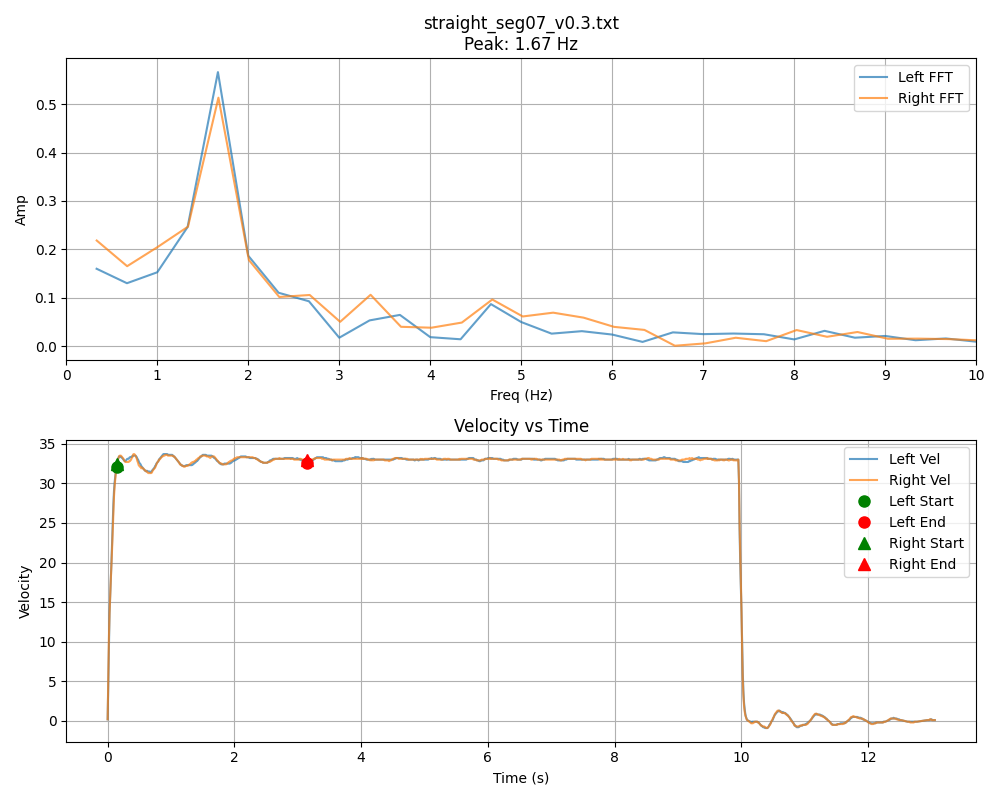
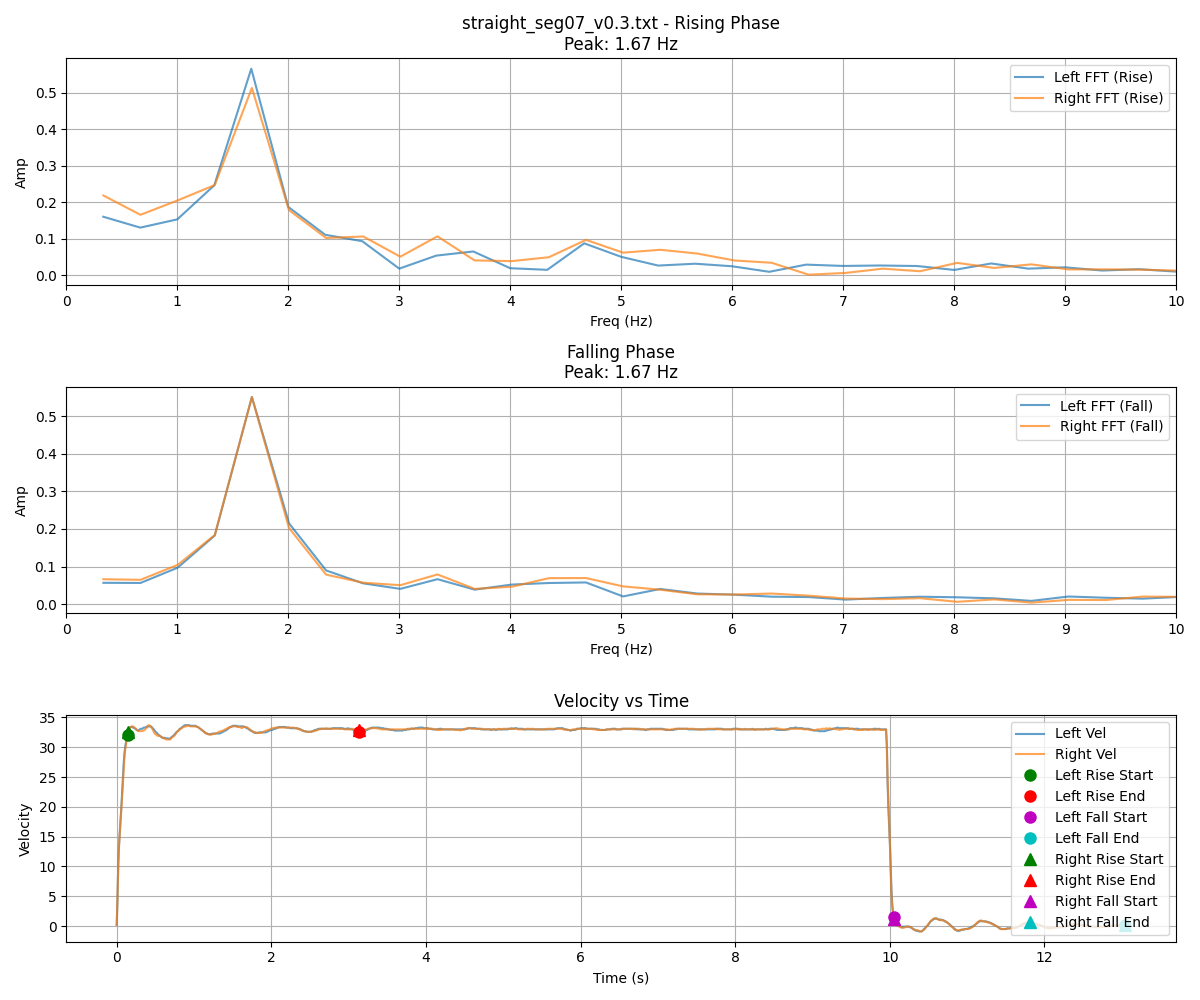
fix plot

diff --git a/script/analyze_vibration.py b/script/analyze_vibration.py
@@ -52,7 +52,7 @@ def parse_segment_file(filepath):
     return data
 
 
-def process_channel_fft(data_list, channel_name, target_vel=None):
+def process_channel_fft(data_list, channel_name, target_vel=None, phase='rise'):
     points = [d for d in data_list if d['type'] == channel_name]
     if len(points) < 2:
         return None, None, None, None, None
@@ -61,27 +61,61 @@ def process_channel_fft(data_list, channel_name, target_vel=None):
     t = np.array([p['t'] for p in points])
     y = np.array([p['val'] for p in points])
 
-    # Filter data: from peak velocity point to max 3 seconds after
     if target_vel is not None and target_vel > 0:
-        # Find the peak velocity
-        peak_vel = np.max(np.abs(y))
-        peak_threshold = peak_vel * 0.95
+        if phase == 'rise':
+            # Rising phase: from peak velocity point to max 3 seconds after
+            peak_vel = np.max(np.abs(y))
+            peak_threshold = peak_vel * 0.95
 
-        # Find first index where velocity >= 95% of peak velocity
-        idx_reached = np.where(np.abs(y) >= peak_threshold)[0]
-        if len(idx_reached) == 0:
-            print(
-                f"Warning: Peak velocity threshold {peak_threshold} never reached for channel {channel_name}"
-            )
-            return None, None, None, None, None
+            idx_reached = np.where(np.abs(y) >= peak_threshold)[0]
+            if len(idx_reached) == 0:
+                print(
+                    f"Warning: Peak velocity threshold {peak_threshold} never reached for channel {channel_name}"
+                )
+                return None, None, None, None, None
 
-        idx_start = idx_reached[0]
+            idx_start = idx_reached[0]
+            time_limit = t[idx_start] + 3.0
+            idx_end = np.where(t <= time_limit)[0][-1]
 
-        # End point: maximum 3 seconds after start
-        time_limit = t[idx_start] + 3.0
-        idx_end = np.where(t <= time_limit)[0][-1]  # Last index within time limit
+        elif phase == 'fall':
+            # Falling phase: find when velocity drops to 5% of peak
+            peak_vel = np.max(np.abs(y))
+            peak_threshold = peak_vel * 0.95
 
-        # Use data from peak velocity to 3 seconds after
+            # Find all points that reached at least 95% of peak
+            peak_region = np.where(np.abs(y) >= peak_threshold)[0]
+
+            if len(peak_region) == 0:
+                print(
+                    f"Warning: Peak region never reached for channel {channel_name}"
+                )
+                return None, None, None, None, None
+
+            # Find when velocity drops to 5% of peak
+            fall_threshold = peak_vel * 0.05
+            idx_dropped = np.where(np.abs(y) <= fall_threshold)[0]
+
+            # Only consider points after the peak region
+            valid_drop_indices = idx_dropped[idx_dropped > peak_region[-1]]
+
+            if len(valid_drop_indices) == 0:
+                print(
+                    f"Warning: Velocity never dropped to 5% of peak for channel {channel_name}"
+                )
+                return None, None, None, None, None
+
+            idx_start = valid_drop_indices[0]
+            time_limit = t[idx_start] + 3.0
+
+            # Find the last available point within time limit, or use the very last point if less than 3 seconds available
+            idx_end_candidates = np.where(t <= time_limit)[0]
+            if len(idx_end_candidates) > 0:
+                idx_end = idx_end_candidates[-1]
+            else:
+                idx_end = len(t) - 1  # Use the very last point
+
+        # Use filtered data based on phase
         mask = (t >= t[idx_start]) & (t <= t[idx_end])
         t = t[mask]
         y = y[mask]
@@ -135,18 +169,26 @@ def analyze_file(filepath, output_dir):
     if not data:
         return None
 
-    freq_l, amp_l, fs_l, t_l, y_l = process_channel_fft(data, 'left',
-                                                        target_vel)
-    freq_r, amp_r, fs_r, t_r, y_r = process_channel_fft(data, 'right',
-                                                        target_vel)
+    # Process both rising and falling phases
+    freq_l_rise, amp_l_rise, fs_l_rise, t_l_rise, y_l_rise = process_channel_fft(
+        data, 'left', target_vel, phase='rise')
+    freq_r_rise, amp_r_rise, fs_r_rise, t_r_rise, y_r_rise = process_channel_fft(
+        data, 'right', target_vel, phase='rise')
+
+    freq_l_fall, amp_l_fall, fs_l_fall, t_l_fall, y_l_fall = process_channel_fft(
+        data, 'left', target_vel, phase='fall')
+    freq_r_fall, amp_r_fall, fs_r_fall, t_r_fall, y_r_fall = process_channel_fft(
+        data, 'right', target_vel, phase='fall')
 
     # Calculate start and end points for marking on plot
     left_start_idx = None
     left_end_idx = None
     right_start_idx = None
     right_end_idx = None
+    left_fall_idx = None
+    right_fall_idx = None
 
-    if t_l is not None and len(t_l) > 0:
+    if t_l_rise is not None and len(t_l_rise) > 0:
         points_left = [d for d in data if d['type'] == 'left']
         points_left.sort(key=lambda x: x['t'])
         y_full_left = np.array([p['val'] for p in points_left])
@@ -163,7 +205,20 @@ def analyze_file(filepath, output_dir):
             if len(idx_end_candidates) > 0:
                 left_end_idx = idx_end_candidates[-1]
 
-    if t_r is not None and len(t_r) > 0:
+        # Find fall start point
+        fall_threshold_left = np.max(np.abs(y_full_left)) * 0.05
+        fall_mask_left = np.abs(y_full_left) <= fall_threshold_left
+        fall_indices_left = np.where(fall_mask_left)[0]
+
+        # Only consider fall after peak region
+        peak_region_left = np.where(np.abs(y_full_left) >= (np.max(np.abs(y_full_left)) * 0.95))[0]
+        if len(peak_region_left) > 0 and len(fall_indices_left) > 0:
+            last_peak_idx = peak_region_left[-1]
+            valid_fall_indices = fall_indices_left[fall_indices_left > last_peak_idx]
+            if len(valid_fall_indices) > 0:
+                left_fall_idx = valid_fall_indices[0]
+
+    if t_r_rise is not None and len(t_r_rise) > 0:
         points_right = [d for d in data if d['type'] == 'right']
         points_right.sort(key=lambda x: x['t'])
         y_full_right = np.array([p['val'] for p in points_right])
@@ -180,38 +235,78 @@ def analyze_file(filepath, output_dir):
             if len(idx_end_candidates) > 0:
                 right_end_idx = idx_end_candidates[-1]
 
-    peak_freq = 0
-    max_amp = 0
+        # Find fall start point
+        fall_threshold_right = np.max(np.abs(y_full_right)) * 0.05
+        fall_mask_right = np.abs(y_full_right) <= fall_threshold_right
+        fall_indices_right = np.where(fall_mask_right)[0]
+
+        # Only consider fall after peak region
+        peak_region_right = np.where(np.abs(y_full_right) >= (np.max(np.abs(y_full_right)) * 0.95))[0]
+        if len(peak_region_right) > 0 and len(fall_indices_right) > 0:
+            last_peak_idx = peak_region_right[-1]
+            valid_fall_indices = fall_indices_right[fall_indices_right > last_peak_idx]
+            if len(valid_fall_indices) > 0:
+                right_fall_idx = valid_fall_indices[0]
+
+    # Find peak frequencies for both phases
+    rise_peak_freq = 0
+    rise_max_amp = 0
+    fall_peak_freq = 0
+    fall_max_amp = 0
 
     # --- Plot Spectrum ---
-    plt.figure(figsize=(10, 8))
+    plt.figure(figsize=(12, 10))
 
-    # Subplot 1: Frequency Spectrum
-    plt.subplot(2, 1, 1)
-    if freq_l is not None and amp_l is not None:
-        plt.plot(freq_l, amp_l, label='Left FFT', alpha=0.7)
-        idx = np.argmax(amp_l)
-        if amp_l[idx] > max_amp:
-            max_amp = amp_l[idx]
-            peak_freq = freq_l[idx]
+    # Subplot 1: Rising Phase Frequency Spectrum
+    plt.subplot(3, 1, 1)
+    if freq_l_rise is not None and amp_l_rise is not None:
+        plt.plot(freq_l_rise, amp_l_rise, label='Left FFT (Rise)', alpha=0.7)
+        idx = np.argmax(amp_l_rise)
+        if amp_l_rise[idx] > rise_max_amp:
+            rise_max_amp = amp_l_rise[idx]
+            rise_peak_freq = freq_l_rise[idx]
 
-    if freq_r is not None and amp_r is not None:
-        plt.plot(freq_r, amp_r, label='Right FFT', alpha=0.7)
-        idx = np.argmax(amp_r)
-        if amp_r[idx] > max_amp:
-            max_amp = amp_r[idx]
-            peak_freq = freq_r[idx]
+    if freq_r_rise is not None and amp_r_rise is not None:
+        plt.plot(freq_r_rise, amp_r_rise, label='Right FFT (Rise)', alpha=0.7)
+        idx = np.argmax(amp_r_rise)
+        if amp_r_rise[idx] > rise_max_amp:
+            rise_max_amp = amp_r_rise[idx]
+            rise_peak_freq = freq_r_rise[idx]
 
-    plt.title(f"{filename}\nPeak: {peak_freq:.2f} Hz")
+    plt.title(f"{filename} - Rising Phase\nPeak: {rise_peak_freq:.2f} Hz")
     plt.xlabel("Freq (Hz)")
     plt.ylabel("Amp")
     plt.legend()
     plt.grid(True)
     plt.xlim(0, 10)
-    plt.xticks(np.arange(0, 11, 1))  # Set ticks every 1 Hz from 0 to 10
+    plt.xticks(np.arange(0, 11, 1))
 
-    # Subplot 2: Velocity vs Time
-    plt.subplot(2, 1, 2)
+    # Subplot 2: Falling Phase Frequency Spectrum
+    plt.subplot(3, 1, 2)
+    if freq_l_fall is not None and amp_l_fall is not None:
+        plt.plot(freq_l_fall, amp_l_fall, label='Left FFT (Fall)', alpha=0.7)
+        idx = np.argmax(amp_l_fall)
+        if amp_l_fall[idx] > fall_max_amp:
+            fall_max_amp = amp_l_fall[idx]
+            fall_peak_freq = freq_l_fall[idx]
+
+    if freq_r_fall is not None and amp_r_fall is not None:
+        plt.plot(freq_r_fall, amp_r_fall, label='Right FFT (Fall)', alpha=0.7)
+        idx = np.argmax(amp_r_fall)
+        if amp_r_fall[idx] > fall_max_amp:
+            fall_max_amp = amp_r_fall[idx]
+            fall_peak_freq = freq_r_fall[idx]
+
+    plt.title(f"Falling Phase\nPeak: {fall_peak_freq:.2f} Hz")
+    plt.xlabel("Freq (Hz)")
+    plt.ylabel("Amp")
+    plt.legend()
+    plt.grid(True)
+    plt.xlim(0, 10)
+    plt.xticks(np.arange(0, 11, 1))
+
+    # Subplot 3: Velocity vs Time
+    plt.subplot(3, 1, 3)
 
     # Plot full data for both channels
     points_left = [d for d in data if d['type'] == 'left']
@@ -230,27 +325,66 @@ def analyze_file(filepath, output_dir):
         start_t = t_full_left[0] if len(points_left) > 0 else t_full_right[0]
         plt.plot(t_full_right - start_t, y_full_right, label='Right Vel', alpha=0.7)
 
-        # Mark start and end points for left channel
+        # Mark rise start and end points for left channel
         if len(points_left) > 0 and left_start_idx is not None:
             start_marker_t = t_full_left[left_start_idx] - t_full_left[0]
             start_marker_y = y_full_left[left_start_idx]
-            plt.plot(start_marker_t, start_marker_y, 'go', markersize=8, label='Left Start')
+            plt.plot(start_marker_t, start_marker_y, 'go', markersize=8, label='Left Rise Start')
 
             if left_end_idx is not None:
                 end_marker_t = t_full_left[left_end_idx] - t_full_left[0]
                 end_marker_y = y_full_left[left_end_idx]
-                plt.plot(end_marker_t, end_marker_y, 'ro', markersize=8, label='Left End')
+                plt.plot(end_marker_t, end_marker_y, 'ro', markersize=8, label='Left Rise End')
 
-        # Mark start and end points for right channel
+        # Find fall end point for marking
+        if left_fall_idx is not None:
+            time_limit = t_full_left[left_fall_idx] + 3.0
+            idx_end_candidates = np.where(t_full_left <= time_limit)[0]
+            if len(idx_end_candidates) > 0:
+                left_fall_end_idx = idx_end_candidates[-1]
+            else:
+                left_fall_end_idx = len(t_full_left) - 1  # Use last point if less than 3s available
+
+            # Mark fall start and end points for left channel
+            fall_start_marker_t = t_full_left[left_fall_idx] - t_full_left[0]
+            fall_start_marker_y = y_full_left[left_fall_idx]
+            plt.plot(fall_start_marker_t, fall_start_marker_y, 'mo', markersize=8, label='Left Fall Start')
+
+            fall_end_marker_t = t_full_left[left_fall_end_idx] - t_full_left[0]
+            fall_end_marker_y = y_full_left[left_fall_end_idx]
+            plt.plot(fall_end_marker_t, fall_end_marker_y, 'co', markersize=8, label='Left Fall End')
+
+        # Mark rise start and end points for right channel
         if right_start_idx is not None:
             start_marker_t = t_full_right[right_start_idx] - start_t
             start_marker_y = y_full_right[right_start_idx]
-            plt.plot(start_marker_t, start_marker_y, 'g^', markersize=8, label='Right Start')
+            plt.plot(start_marker_t, start_marker_y, 'g^', markersize=8, label='Right Rise Start')
 
             if right_end_idx is not None:
                 end_marker_t = t_full_right[right_end_idx] - start_t
                 end_marker_y = y_full_right[right_end_idx]
-                plt.plot(end_marker_t, end_marker_y, 'r^', markersize=8, label='Right End')
+                plt.plot(end_marker_t, end_marker_y, 'r^', markersize=8, label='Right Rise End')
+
+        # Find fall end point for right channel
+        right_fall_end_idx = None
+        if right_fall_idx is not None:
+            time_limit = t_full_right[right_fall_idx] + 3.0
+            idx_end_candidates = np.where(t_full_right <= time_limit)[0]
+            if len(idx_end_candidates) > 0:
+                right_fall_end_idx = idx_end_candidates[-1]
+            else:
+                right_fall_end_idx = len(t_full_right) - 1  # Use last point if less than 3s available
+
+        # Mark fall start point for right channel
+        if right_fall_idx is not None:
+            fall_start_marker_t = t_full_right[right_fall_idx] - start_t
+            fall_start_marker_y = y_full_right[right_fall_idx]
+            plt.plot(fall_start_marker_t, fall_start_marker_y, 'm^', markersize=8, label='Right Fall Start')
+
+            if right_fall_end_idx is not None:
+                fall_end_marker_t = t_full_right[right_fall_end_idx] - start_t
+                fall_end_marker_y = y_full_right[right_fall_end_idx]
+                plt.plot(fall_end_marker_t, fall_end_marker_y, 'c^', markersize=8, label='Right Fall End')
 
     plt.title("Velocity vs Time")
     plt.xlabel("Time (s)")
@@ -264,7 +398,7 @@ def analyze_file(filepath, output_dir):
     plt.savefig(plot_path)
     plt.close()
 
-    return peak_freq, max_amp
+    return rise_peak_freq, rise_max_amp, fall_peak_freq, fall_max_amp
 
 
 def main():
@@ -285,7 +419,8 @@ def main():
     print(f"Found {len(files)} files to analyze.")
 
     # Store results by category
-    results = {}  # key: 'bent_v0.3', val: [freqs]
+    rise_results = {}  # key: 'bent_v0.3', val: [freqs]
+    fall_results = {}
 
     for f in files:
         fname = os.path.basename(f)
@@ -301,20 +436,41 @@ def main():
 
         res = analyze_file(f, plots_dir)
         if res:
-            freq, amp = res
+            rise_freq, rise_amp, fall_freq, fall_amp = res
             # Filter out very low freq noise if needed
-            if freq > 0.1:
-                if category not in results:
-                    results[category] = []
-                results[category].append(freq)
+            if rise_freq > 0.1:
+                if category not in rise_results:
+                    rise_results[category] = []
+                rise_results[category].append(rise_freq)
+
+            if fall_freq > 0.1:
+                if category not in fall_results:
+                    fall_results[category] = []
+                fall_results[category].append(fall_freq)
 
     print("\n" + "=" * 50)
     print("Summary of Dominant Frequencies by Category")
     print("=" * 50)
 
-    # Print sorted by key
-    for cat in sorted(results.keys()):
-        freqs = results[cat]
+    # Print rising phase results
+    print("\n--- RISING PHASE ---")
+    for cat in sorted(rise_results.keys()):
+        freqs = rise_results[cat]
+        avg_f = np.mean(freqs)
+        med_f = np.median(freqs)
+        std_f = np.std(freqs)
+
+        print(f"Category: {cat} (n={len(freqs)})")
+        print(f"  Average: {avg_f:.4f} Hz")
+        print(f"  Median:  {med_f:.4f} Hz")
+        print(f"  StdDev:  {std_f:.4f} Hz")
+        print(f"  Values:  {np.round(freqs, 3)}")
+        print("-" * 30)
+
+    # Print falling phase results
+    print("\n--- FALLING PHASE ---")
+    for cat in sorted(fall_results.keys()):
+        freqs = fall_results[cat]
         avg_f = np.mean(freqs)
         med_f = np.median(freqs)
         std_f = np.std(freqs)
